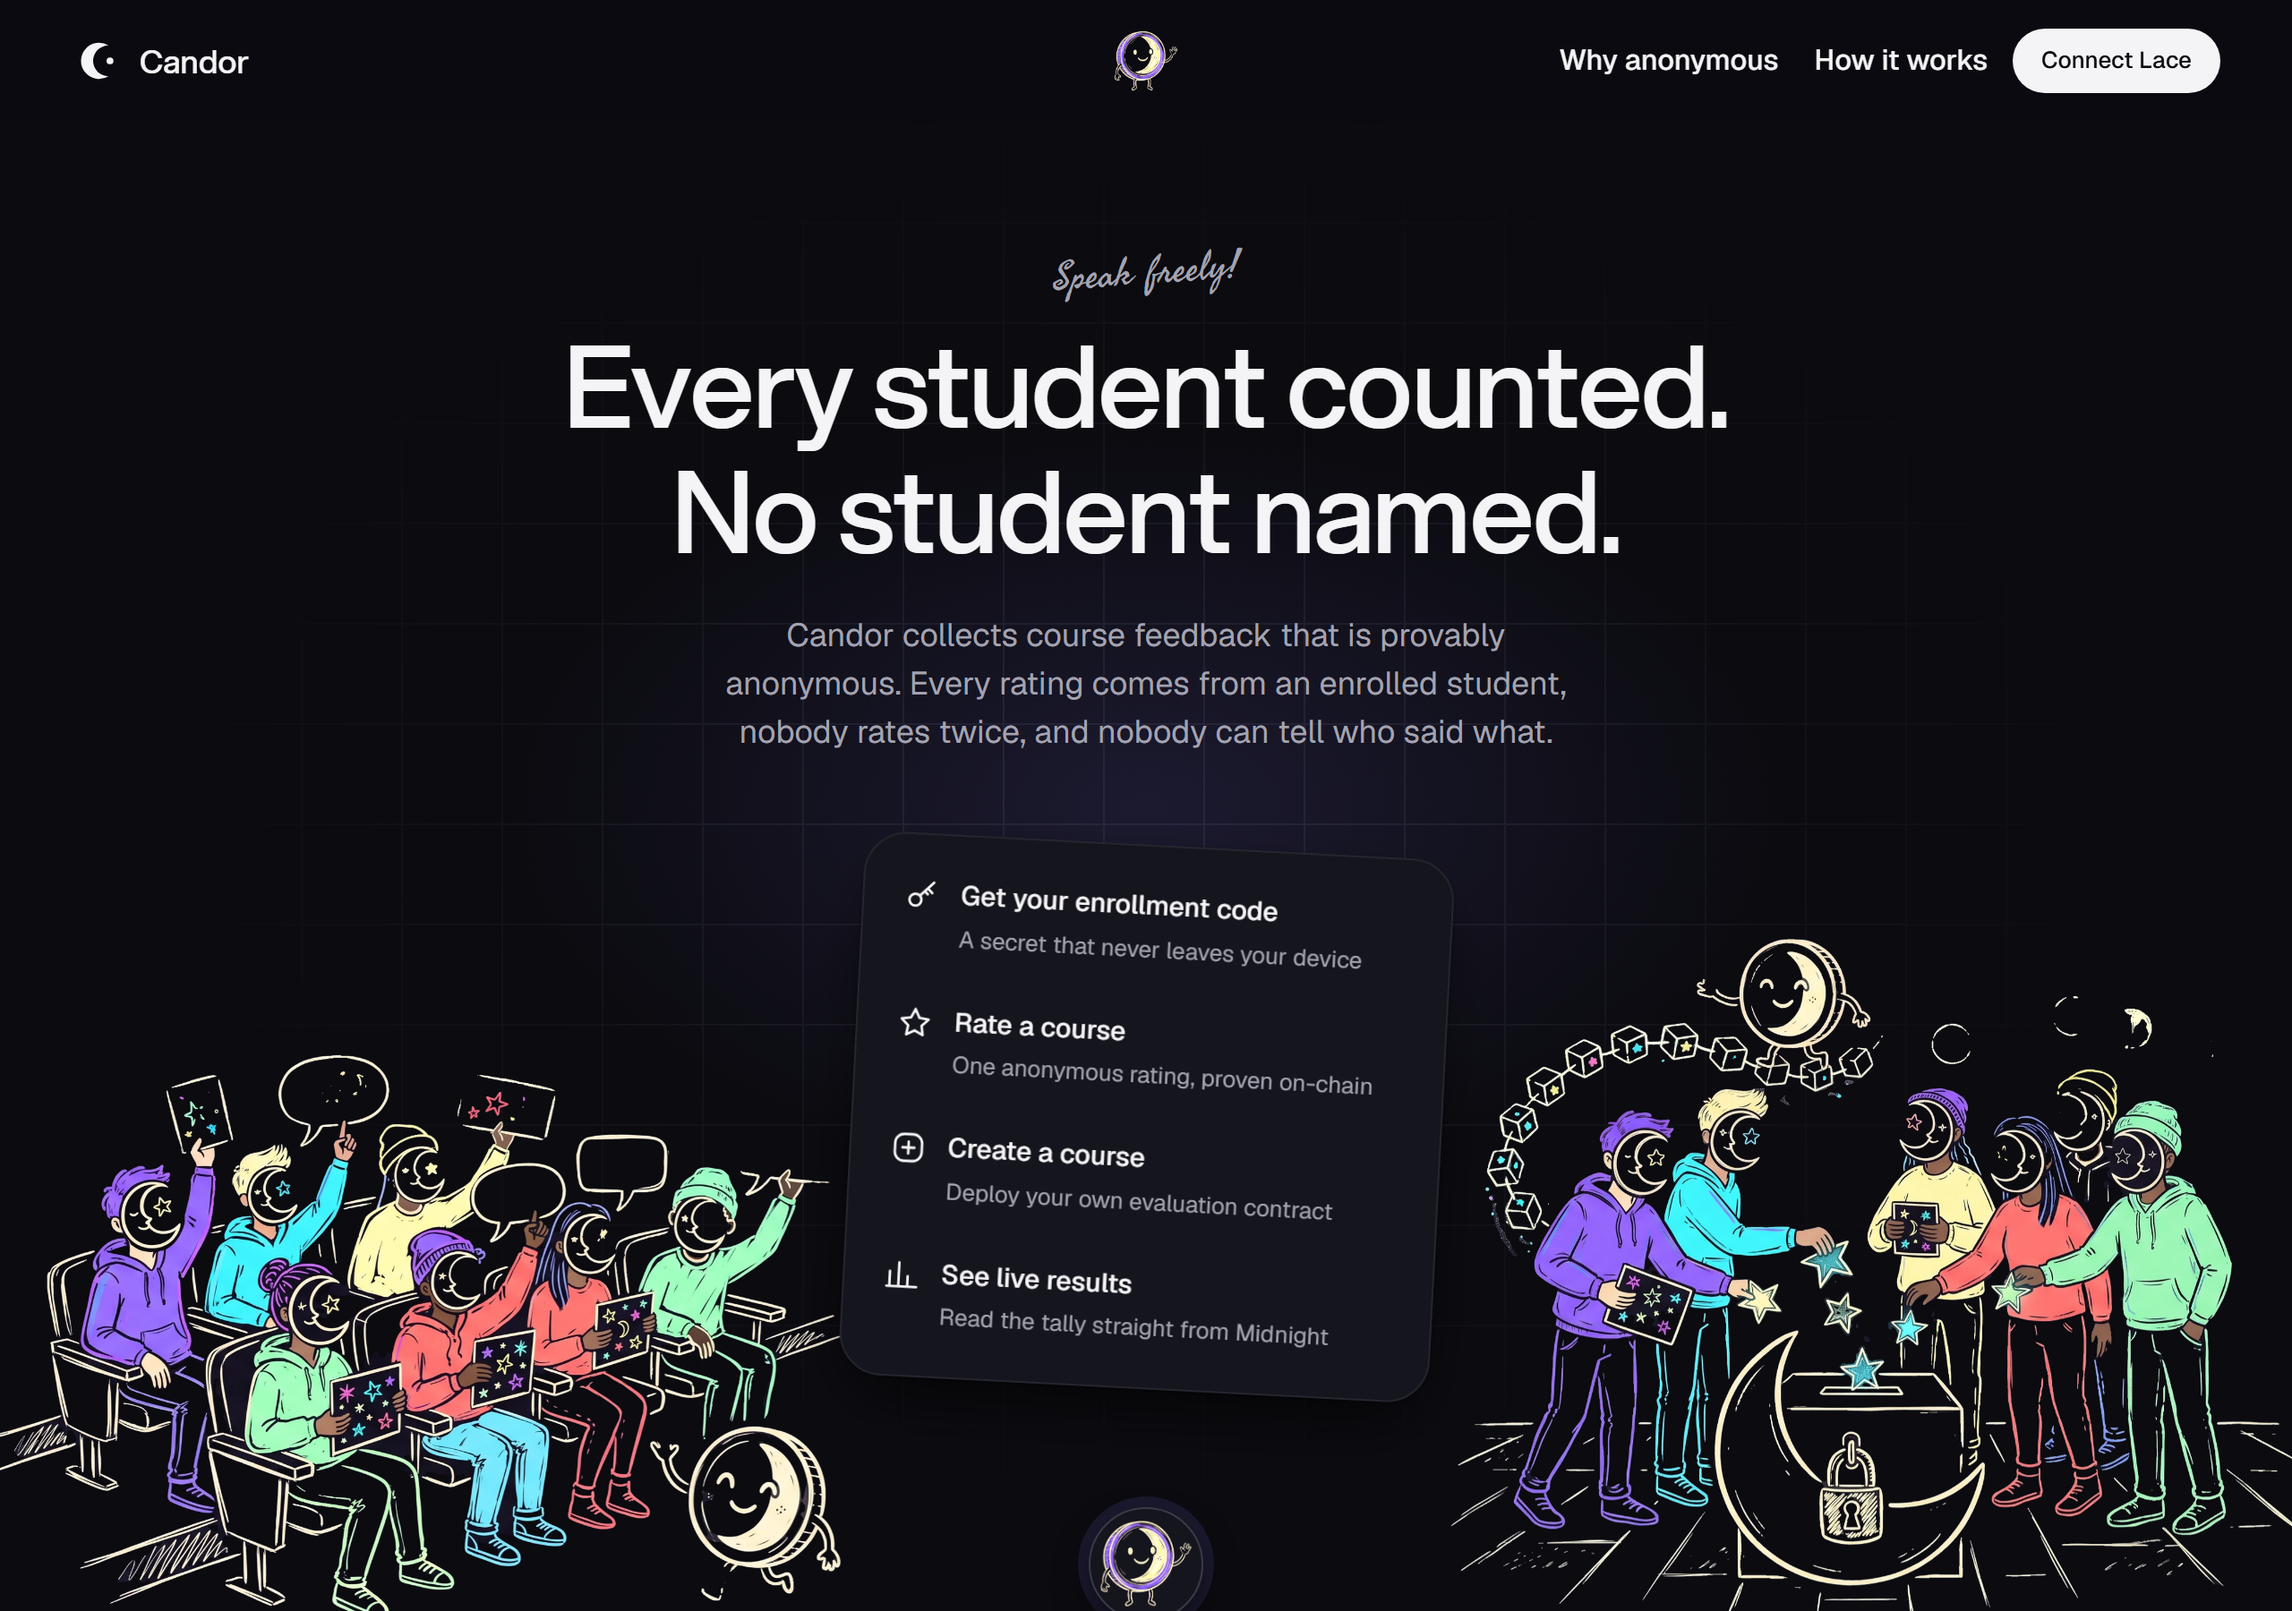
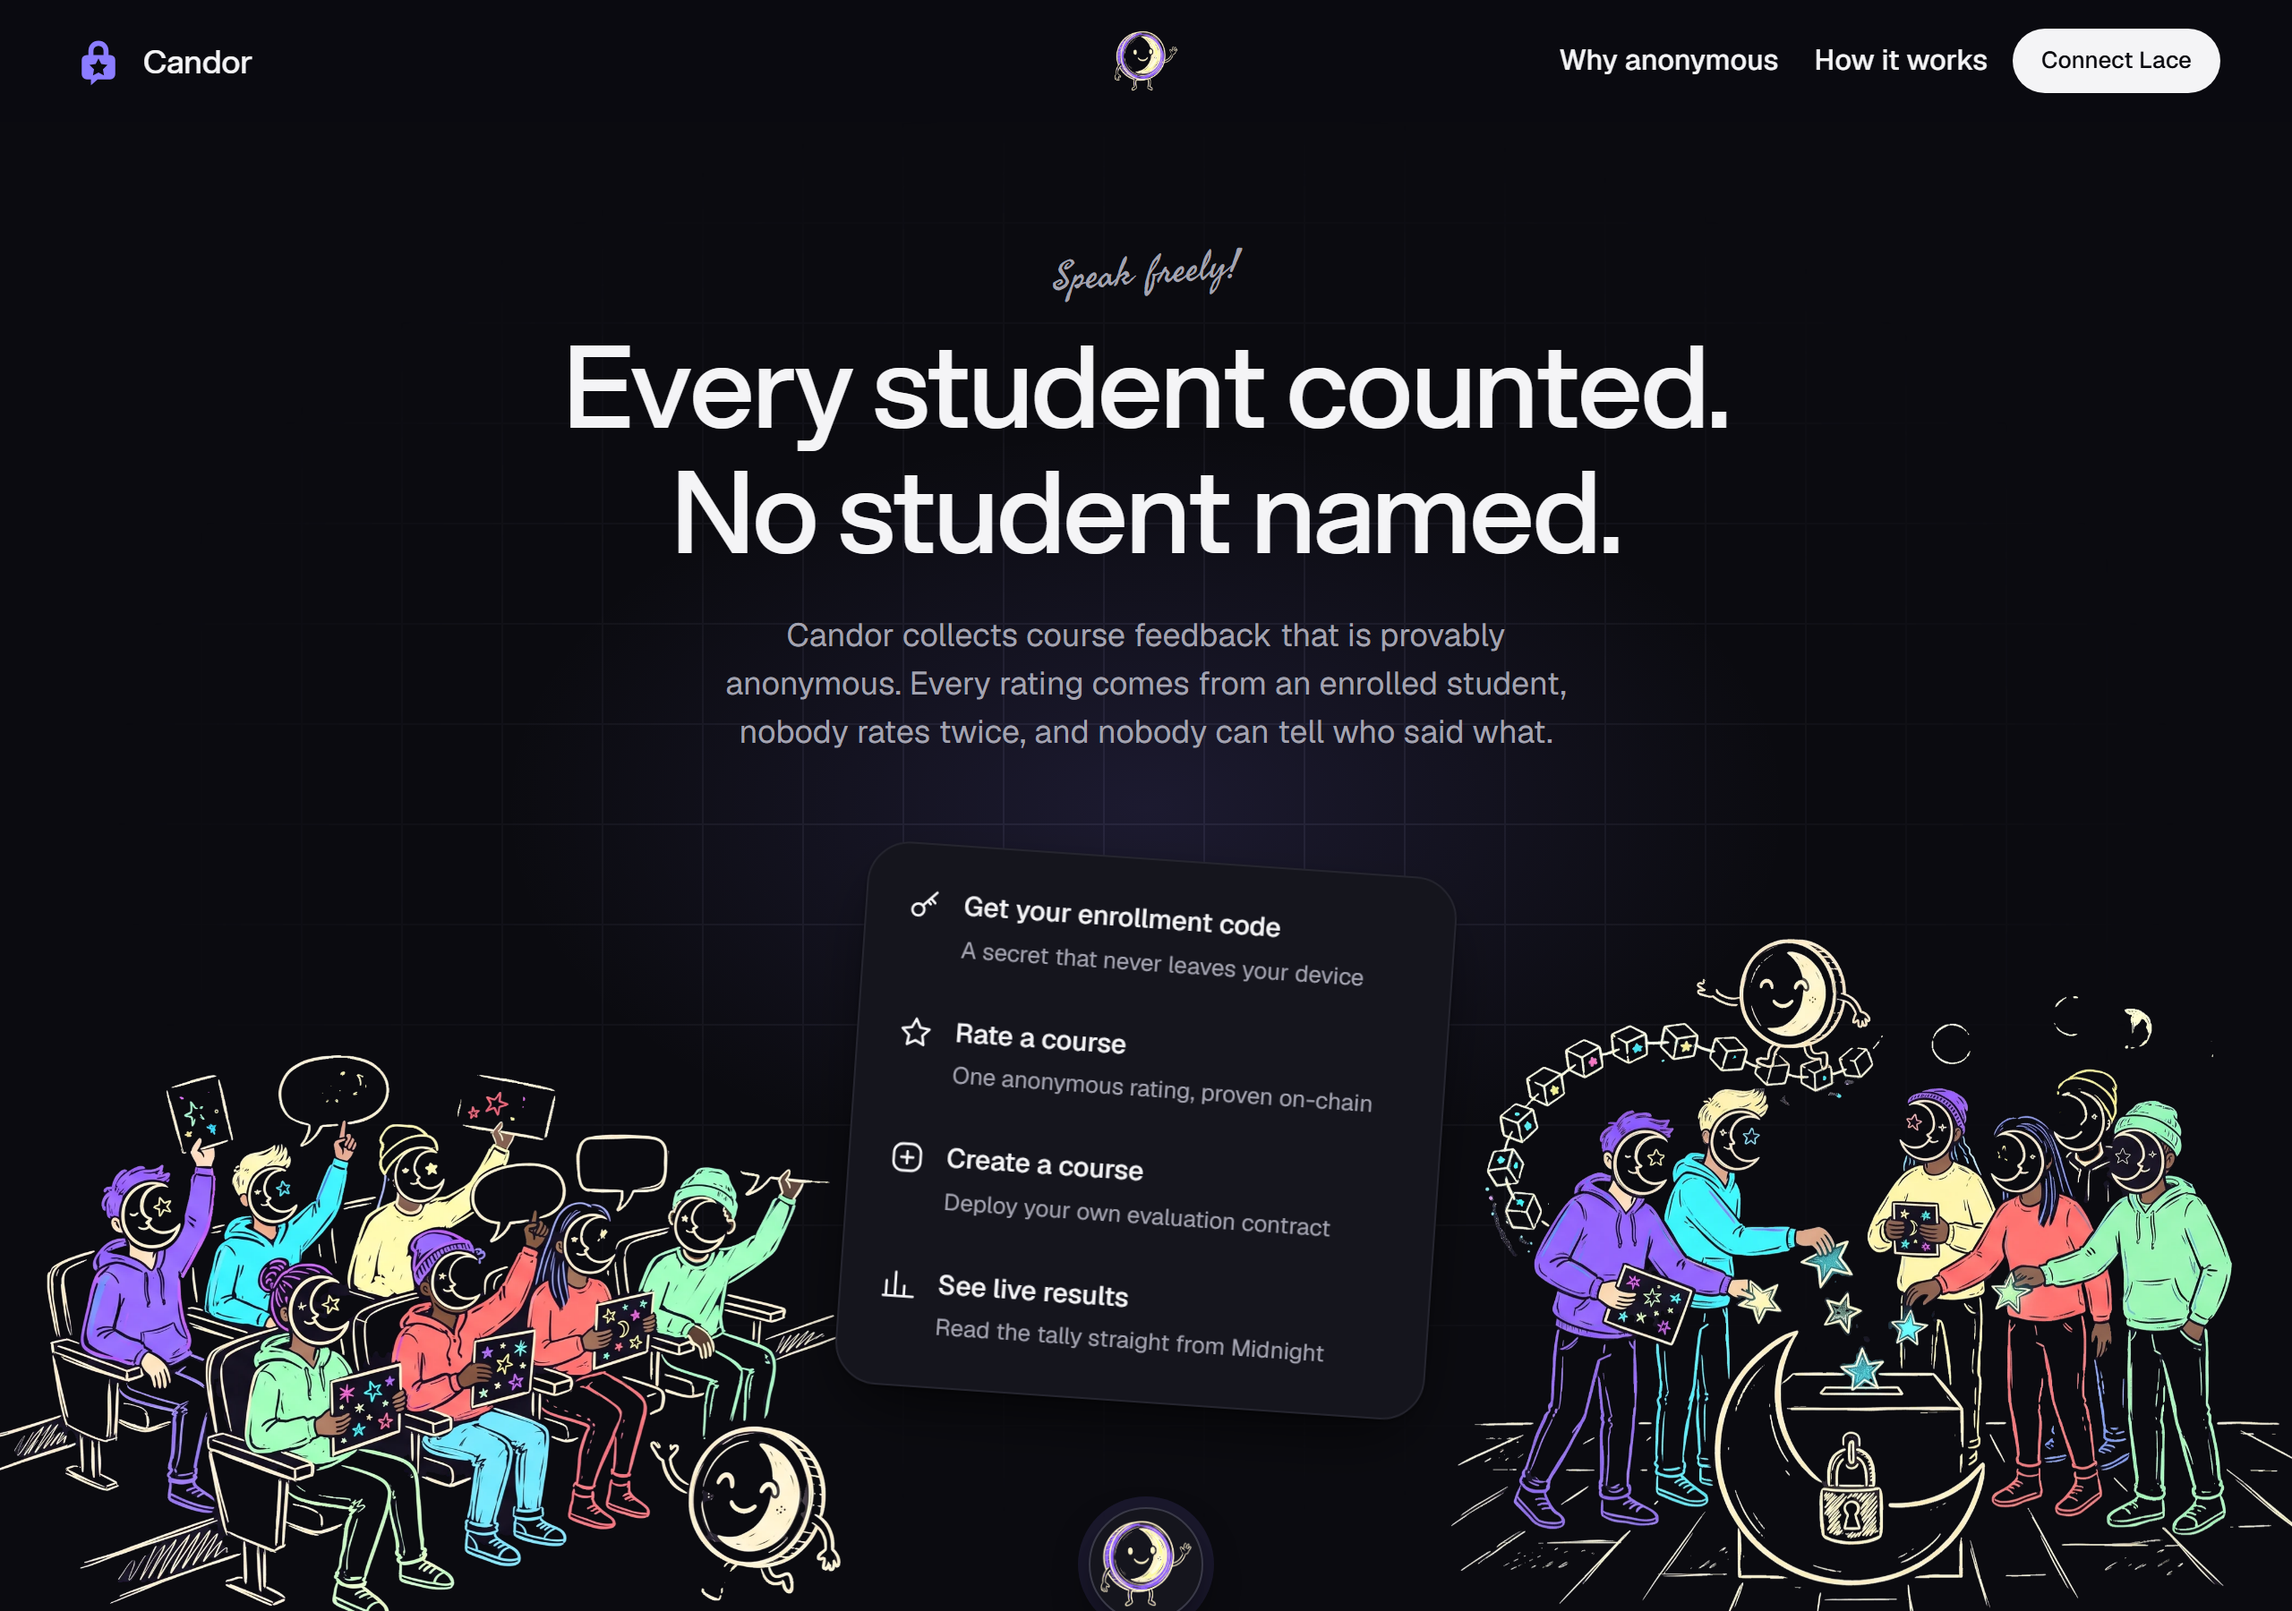
README: denetlenebilirlik bolumu, ekran goruntuleri yeni logoyla

Changed region(s): [[0.375, 0.5289, 0.5938, 0.84], [0.0312, 0.0311, 0.125, 0.0622]]

diff --git a/README.md b/README.md
@@ -86,20 +86,12 @@ An on-chain observer **can see** that a rating of, say, 4 was added to course `C
 
 An on-chain observer **cannot see** which of the 30 enrolled students submitted that rating. The instructor, who handed out the codes and knows which student owns which code, cannot tell either: the nullifier is a different hash of the student's secret, and the proof never reveals the Merkle leaf. The one thing a student can reveal is their own secret, which only they hold.
 
-### What an observer can still infer
+### Auditable by design
 
-Zero-knowledge hides *who*, not *when* or *how many*. Someone watching the chain can still learn:
-
-- **Timing.** Each rating is its own transaction with a block time. If only one student was online at that moment, the timing leaks more than the proof does. Larger classes and a longer rating window shrink this.
-- **Turnout.** The number of ratings versus enrolled codes is public by design.
-- **Small classes.** With two enrolled students and one rating, the instructor knows the rating came from one of two people. Candor does not pretend otherwise; the UI shows turnout so instructors see when a class is too small for anonymity to mean much.
-- **Wallet, not identity.** The transaction is paid by a Lace wallet. The contract never sees the wallet's link to a student, but a student who uses a wallet tied to their name elsewhere weakens their own anonymity. A fresh Preprod wallet is enough for the demo.
-
-### Trust assumptions and known limits
-
-- **Roster integrity depends on whoever holds the instructor key.** The contract proves that every rating comes from a code on the roster and that each code rates at most once. It cannot prove that a code belongs to a real student, so an instructor could enroll codes they generated themselves. Mitigations: the roster is public, so the enrolled count can be checked against the class list, every student can verify their own code is on it, and the duplicate-enrollment guard stops the count from being padded with repeats. A registrar-held key (see PROPOSAL.md) moves this trust away from the person being evaluated.
-- **One secret per browser.** A student who clears browser storage without the backup loses the ability to rate; a student who shares the secret gives away their vote.
-- **Proof generation runs where the user is.** Anyone submitting a transaction needs a proof server they control (see below).
+- **The roster is public.** Anyone can check that the number of enrolled codes matches the class list, and every student can verify that their own code is on it.
+- **No duplicates.** The contract rejects a code that is already on the roster, so the enrolled count is exact.
+- **One rating per code, enforced on-chain.** The nullifier set makes a second rating impossible, not just discouraged.
+- **Keys stay with their owners.** The student secret lives in the student's browser with a backup option; the instructor key lives in the instructor's browser.
 
 ## Contract
 

diff --git a/PROPOSAL.md b/PROPOSAL.md
@@ -36,8 +36,6 @@ Midnight lets the contract check the two facts that matter, *this rater is enrol
 
 Realistic. The contract is small (5 circuits, the largest is `submitRating` with a depth-10 Merkle proof) and already runs end to end on Preprod. The fee model fits: each student pays one transaction's DUST, and instructors pay for roster updates.
 
-Known limit today: the roster is only as honest as the holder of the instructor key, since the contract cannot tell a real student's code from one the instructor generated. The roster being public keeps this auditable, and item 2 below removes the conflict of interest.
-
 Remaining work before Mainnet:
 
 1. **Hosted proving.** Replace the local proof server requirement with wallet-side proving or a hosted proof server, so students need nothing but Lace.
